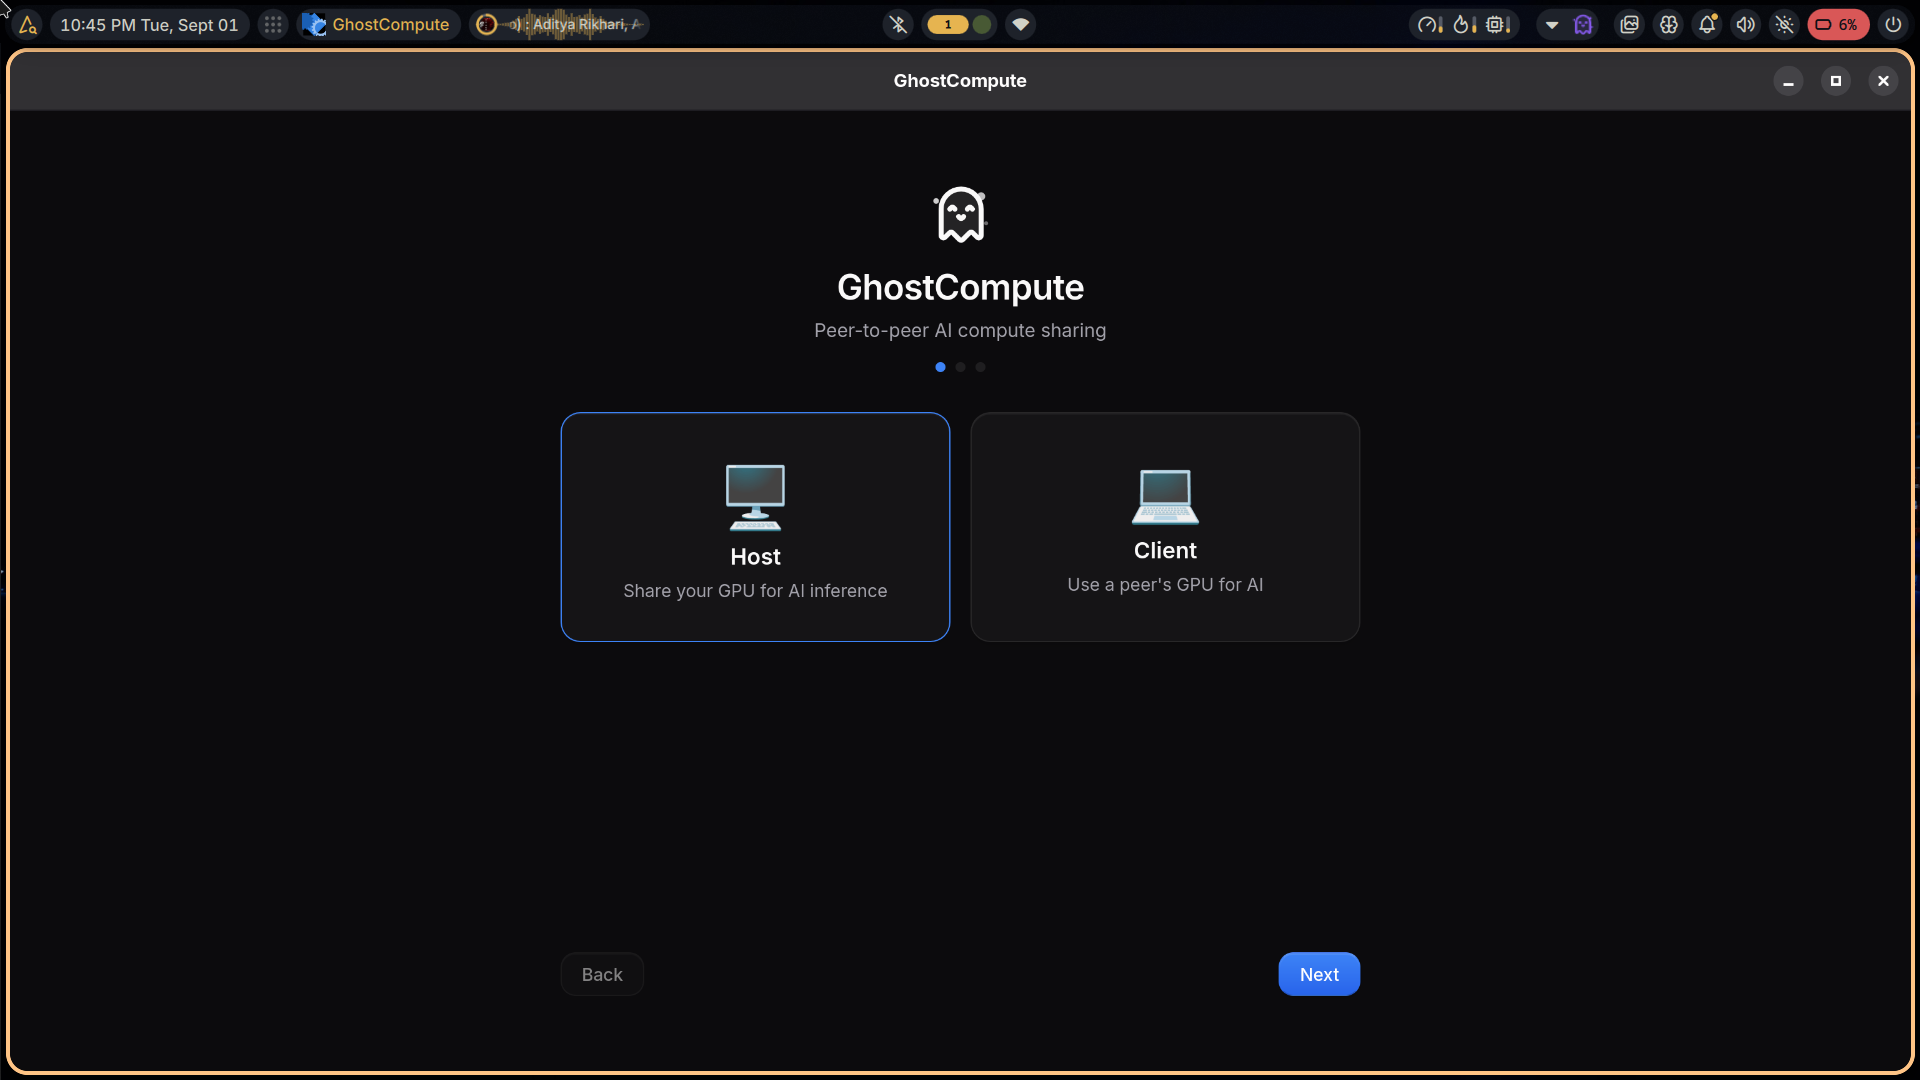
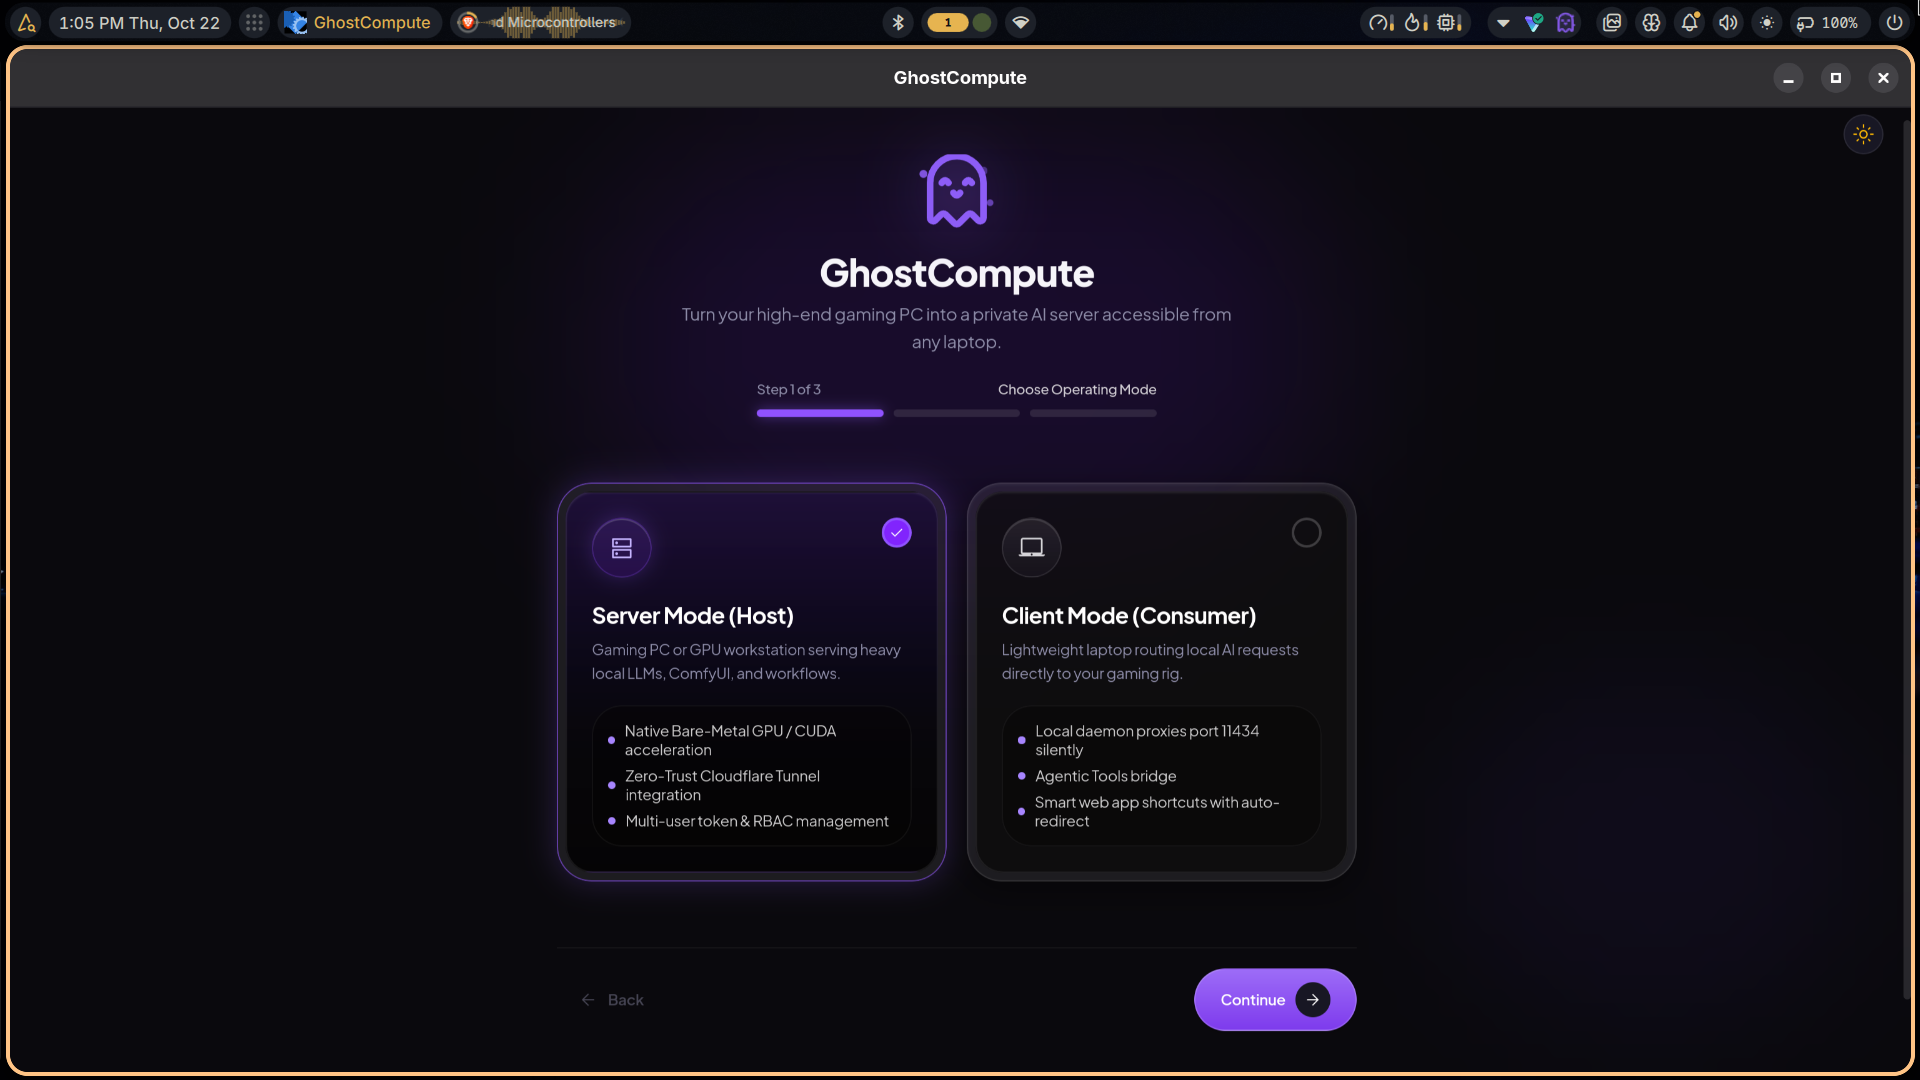
Screenshot Update |J0X|

diff --git a/README.md b/README.md
@@ -1,9 +1,9 @@
 <div align="center">
-  <img src="public/logo.svg" alt="GhostCompute Logo" width="160" height="160" />
+  <img src="public/logo.svg" alt="GhostCompute Logo" width="140" height="140" />
   
   # GhostCompute
-  
-  **Turn any High-End PC into a Private, Zero-Trust AI & Automation Cloud Server**
+
+  ### Turn your high-end gaming PC into a private AI cloud server accessible from any laptop.
 
   [![License: GPL v3](https://img.shields.io/badge/License-GPLv3-blue.svg)](LICENSE)
   [![Built with Tauri v2](https://img.shields.io/badge/Built_with-Tauri_v2-24c8db.svg)](https://tauri.app/)
@@ -11,19 +11,43 @@
   [![Backend Rust](https://img.shields.io/badge/Backend-Rust_Async-dea584.svg)](https://www.rust-lang.org/)
   [![Security Noise Protocol](https://img.shields.io/badge/Tunnel-Cloudflare_+_Noise_XX-f38020.svg)](https://www.cloudflare.com/)
 
-  *Enterprise-Grade Open-Source Desktop and Daemon Architecture*
+  <br />
+
+  <p align="center">
+    <b>Stop paying monthly cloud GPU subscriptions.</b><br />
+    Harness the full power of your home workstation's RTX or Radeon GPU while sitting on a coffee shop couch with a MacBook or lightweight ultrabook.
+  </p>
+
+  <br />
+
+  <img src="docs/screenshots/GhostCompute-01.png" alt="GhostCompute Mode Selection Screen" width="900" style="border-radius: 12px; box-shadow: 0 16px 40px rgba(0, 0, 0, 0.6);" />
+
 </div>
 
 ---
 
-## Executive Summary
+## The Problem GhostCompute Solves
 
-GhostCompute transforms any high-end gaming PC or GPU workstation into a secure, self-hosted AI compute server accessible from any lightweight laptop (MacBook, thin client, or travel machine) across local networks (LAN) or over the internet (WAN).
+High-performance AI inference and heavy generative models require substantial dedicated VRAM. But carrying a 6-pound gaming laptop with loud fans and a 2-hour battery life is painful, and renting cloud GPUs costs hundreds of dollars every month while exposing your proprietary code and private conversations to external cloud providers.
 
-The platform operates as a single unified binary supporting two distinct runtime modes:
+**GhostCompute gives you the best of both worlds:**
+1. **Zero Cloud Costs:** Run 70B LLMs, ComfyUI pipelines, and AI agent workflows completely on the GPU hardware you already own.
+2. **Infinite Portability:** Code and chat on a sleek, silent, battery-efficient laptop anywhere in the world.
+3. **Drop-in Developer Compatibility:** Seamlessly routes local AI coding tools (Claude Code, Cursor, Continue, Antigravity) through a silent background proxy daemon without changing a single line of your workflow.
+4. **Zero-Trust Security:** Built on Noise-XX handshake cryptography (ChaCha20-Poly1305 + Curve25519) and zero-config Cloudflare Tunnels with no open router ports or static IP requirements.
 
-- **Server Mode (Host):** Manages bare-metal GPU acceleration (NVIDIA CUDA, AMD ROCm, Apple Metal), runs an automated service catalog orchestrating 16 open-source AI applications, enforces multi-user role-based access control (RBAC), and provides zero-trust remote tunneling via Cloudflare or Pinggy.
-- **Client Mode (Consumer):** Runs a silent background proxy daemon on `127.0.0.1:11434`, automatically configures developer tools (Claude Code, Cursor, Antigravity, Continue), and provides live connection-aware shortcuts to remote host services.
+---
+
+## How It Works: Two Modes, One Binary
+
+GhostCompute compiles into a single, lightning-fast native binary that runs in either of two modes:
+
+| | 🖥 Server Mode (Host) | 💻 Client Mode (Consumer) |
+|:---|:---|:---|
+| **Where it runs** | Your GPU Workstation / Gaming PC at home or the office | Your MacBook, ThinkPad, Chromebook, or travel ultrabook |
+| **What it does** | Drives bare-metal GPU inference, manages 16 open-source AI containers, and orchestrates encrypted tunnels | Silently forwards requests on `127.0.0.1:11434` to your home rig with sub-millisecond local proxy latency |
+| **Integrations** | Ollama, LM Studio, ComfyUI, Open WebUI, n8n, Tabby, Dify | Claude Code, Cursor, Antigravity IDE, Continue, Web Browsers |
+| **Connection** | Zero-config Cloudflare Quick Tunnel or instant LAN mDNS | One-click pairing with Short Authentication String (SAS) verification |
 
 ---
 
